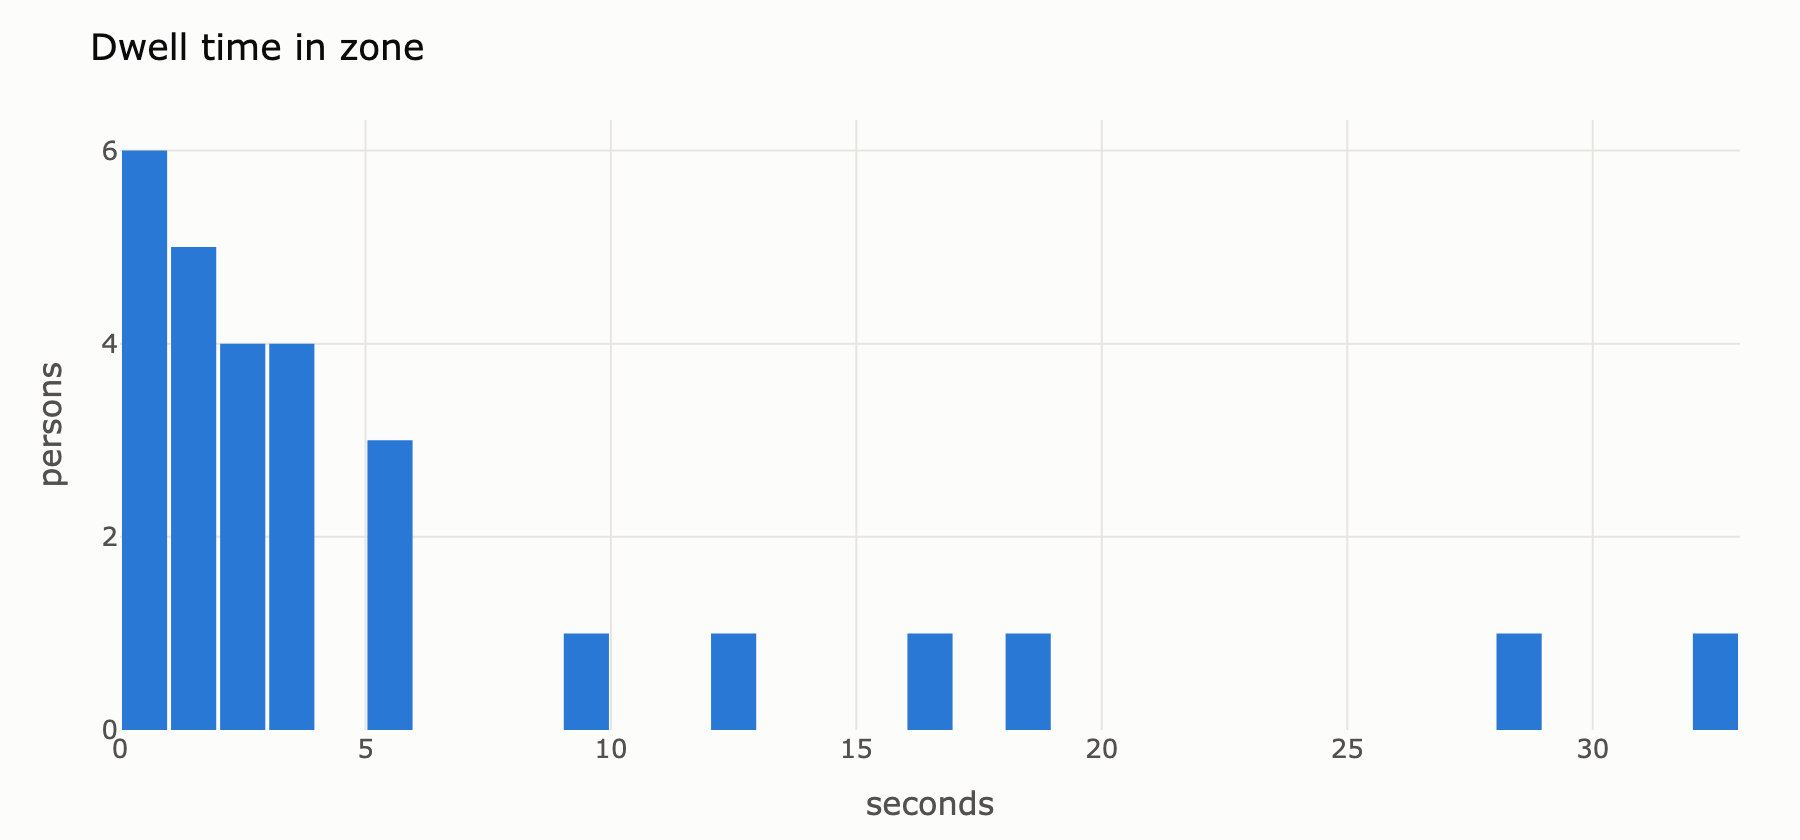
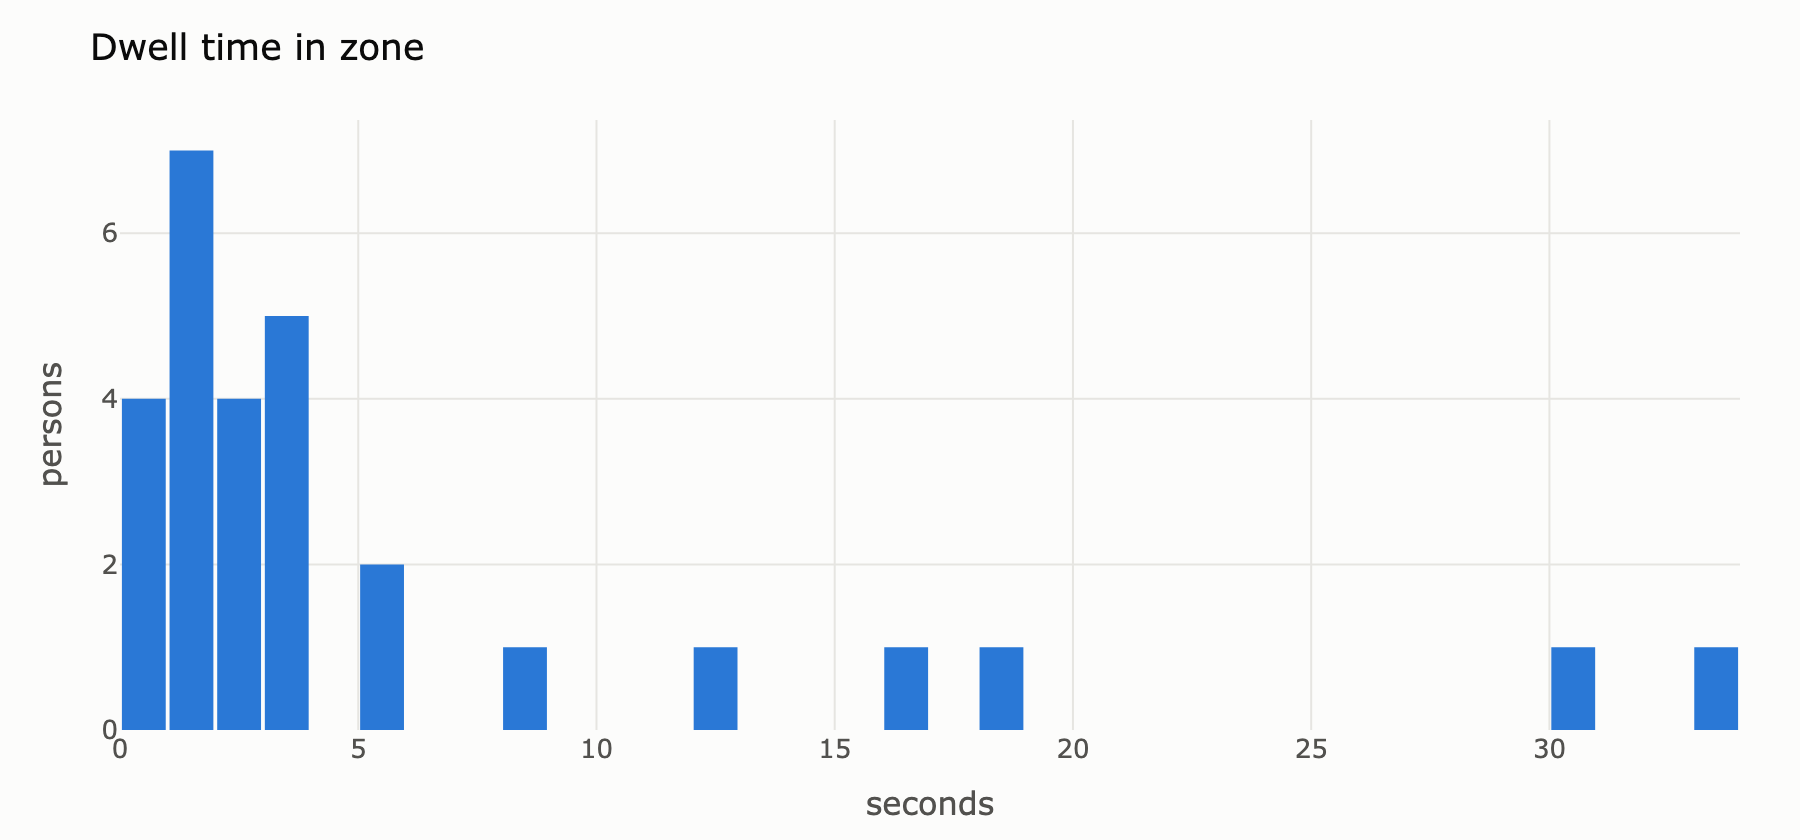
filter static low-confidence tracks, coreml fp16 accuracy parity in readme

diff --git a/src/crowd_dwell/analytics.py b/src/crowd_dwell/analytics.py
@@ -37,6 +37,13 @@ def stitch(df: pd.DataFrame, fps: float, max_gap_s: float, max_dist_px: float) -
     return df.assign(track_id=df.track_id.map(root).fillna(df.track_id).astype(int))
 
 
+def drop_static(df: pd.DataFrame, min_motion_px: float, min_conf: float) -> pd.DataFrame:
+    g = df.groupby("track_id")
+    extent = np.hypot(g.fx.max() - g.fx.min(), g.fy.max() - g.fy.min())
+    static = (extent < min_motion_px) & (g.conf.mean() < min_conf)
+    return df[~df.track_id.isin(static[static].index)]
+
+
 def track_kpis(df: pd.DataFrame, fps: float) -> pd.DataFrame:
     d = df.sort_values(["track_id", "frame"])
     step = np.hypot(d.groupby("track_id").fx.diff(), d.groupby("track_id").fy.diff())
@@ -100,6 +107,8 @@ def main() -> None:
     ap.add_argument("--zones", default="configs/zones.yaml")
     ap.add_argument("--max-gap", type=float, default=1.0, help="seconds")
     ap.add_argument("--max-dist", type=float, default=80.0, help="pixels")
+    ap.add_argument("--min-motion", type=float, default=20.0, help="pixels")
+    ap.add_argument("--static-conf", type=float, default=0.4)
     ap.add_argument("--min-dwell", type=float, default=0.5, help="seconds")
     ap.add_argument("--bin", type=float, default=5.0, help="seconds")
     ap.add_argument("--sigma", type=float, default=15.0)
@@ -109,8 +118,10 @@ def main() -> None:
     meta = json.loads((run / "meta.json").read_text())
     fps = meta["fps"]
     raw = load_tracks(run / "tracks.csv")
-    df = stitch(raw, fps, a.max_gap, a.max_dist)
-    df.drop(columns=["fx", "fy"]).to_csv(run / "tracks_stitched.csv", index=False)
+    stitched = stitch(raw, fps, a.max_gap, a.max_dist)
+    df = drop_static(stitched, a.min_motion, a.static_conf)
+    stitched.drop(columns=["fx", "fy"]).to_csv(run / "tracks_stitched.csv", index=False)
+    df.drop(columns=["fx", "fy"]).to_csv(run / "tracks_clean.csv", index=False)
 
     kpis = track_kpis(df, fps)
     kpis.to_csv(run / "track_kpis.csv")
@@ -139,7 +150,8 @@ def main() -> None:
 
     summary = {
         "tracks_raw": int(raw.track_id.nunique()),
-        "tracks_stitched": int(df.track_id.nunique()),
+        "tracks_stitched": int(stitched.track_id.nunique()),
+        "tracks_clean": int(df.track_id.nunique()),
         "line_in": int(kpis.crossed_in.sum()),
         "line_out": int(kpis.crossed_out.sum()),
         "zone_visitors": int(dwell.size),

diff --git a/tests/test_analytics.py b/tests/test_analytics.py
@@ -1,15 +1,15 @@
 import pandas as pd
 
-from crowd_dwell.analytics import stitch, throughput, track_kpis
+from crowd_dwell.analytics import drop_static, stitch, throughput, track_kpis
 
 FPS = 10.0
 
 
-def track(tid, frames, x0, in_zone=0, crossed_at=None):
+def track(tid, frames, x0, in_zone=0, crossed_at=None, conf=0.9, speed=1):
     return [
         {
-            "frame": f, "t": (f - 1) / FPS, "track_id": tid,
-            "fx": x0 + f, "fy": 500.0, "in_zone": in_zone,
+            "frame": f, "t": (f - 1) / FPS, "track_id": tid, "conf": conf,
+            "fx": x0 + speed * f, "fy": 500.0, "in_zone": in_zone,
             "crossed": int(f == crossed_at),
         }
         for f in frames
@@ -34,6 +34,16 @@ def test_stitch_chains_transitively():
         track(1, range(1, 6), 0) + track(2, range(8, 13), 0) + track(3, range(15, 20), 0)
     )
     assert stitch(df, FPS, max_gap_s=1.0, max_dist_px=50).track_id.unique().tolist() == [1]
+
+
+def test_drop_static_only_removes_still_low_confidence_tracks():
+    df = pd.DataFrame(
+        track(1, range(1, 50), 0, speed=0, conf=0.2)
+        + track(2, range(1, 50), 0, speed=0, conf=0.8)
+        + track(3, range(1, 50), 0, speed=5, conf=0.2)
+    )
+    out = drop_static(df, min_motion_px=20, min_conf=0.4)
+    assert sorted(out.track_id.unique()) == [2, 3]
 
 
 def test_kpis_dwell_and_crossings():

diff --git a/src/crowd_dwell/detect_track.py b/src/crowd_dwell/detect_track.py
@@ -50,8 +50,10 @@ class Renderer:
         self.trace = sv.TraceAnnotator(
             position=sv.Position.BOTTOM_CENTER, trace_length=int(2 * fps), color_lookup=lookup
         )
-        self.box = sv.BoxAnnotator(thickness=2, color_lookup=lookup)
-        self.label = sv.LabelAnnotator(text_scale=0.5, text_padding=4, color_lookup=lookup)
+        self.box = sv.BoxAnnotator(thickness=3, color_lookup=lookup)
+        self.label = sv.LabelAnnotator(
+            text_scale=0.9, text_thickness=2, text_padding=5, color_lookup=lookup
+        )
 
     def __call__(self, frame, det, labels, counts) -> np.ndarray:
         if self.anon:

diff --git a/src/crowd_dwell/benchmark.py b/src/crowd_dwell/benchmark.py
@@ -13,8 +13,8 @@ from crowd_dwell.zones import first_frame, read_frames, resolve_source
 
 def load(weights: str, backend: str, shape: tuple[int, int]) -> tuple[YOLO, str | None]:
     if backend.startswith("coreml"):
-        half = backend == "coreml-fp16"
-        return YOLO(YOLO(weights).export(format="coreml", imgsz=list(shape), half=half)), None
+        quant = {"quantize": 16} if backend == "coreml-fp16" else {}
+        return YOLO(YOLO(weights).export(format="coreml", imgsz=list(shape), **quant)), None
     return YOLO(weights), backend
 
 

diff --git a/README.md b/README.md
@@ -11,12 +11,13 @@ Detect people in video, track them over time and turn the tracks into audience K
 Requires macOS on Apple Silicon (MPS / CoreML), [uv](https://docs.astral.sh/uv/) and `ffmpeg` for the GIF.
 
 ```bash
-make setup                 # uv env, Python 3.12, incl. coremltools
-make data                  # MOT17 (~5.5 GB), extracts the FRCNN train sequences
-make preview SEQ=MOT17-04  # check line and zone from configs/zones.yaml
-make track analyze eval SEQ=MOT17-04
-make bench                 # FPS per model size and backend
-make gif
+make setup                         # uv env, Python 3.12, incl. coremltools
+make data                          # MOT17 (~5.5 GB), extracts the FRCNN train sequences
+make preview                       # check line and zone from configs/zones.yaml
+make export                        # YOLO26s -> CoreML FP16 (Neural Engine)
+make track analyze eval MODEL=yolo26s.mlpackage
+make bench                         # FPS per model size and backend
+make gif MODEL=yolo26s.mlpackage
 ```
 
 Any video file works as input:
@@ -33,6 +34,7 @@ uv run crowd-analyze runs/my_video
 | `annotated.mp4` | boxes, IDs, traces, line, zone, live counter, people pixelated |
 | `tracks.csv` | one row per frame and track: box, confidence, in-zone flag, crossing (+1 in / −1 out) |
 | `tracks_stitched.csv` | tracks after gap stitching |
+| `tracks_clean.csv` | stitched tracks without static low-confidence false positives (bollards, cones) |
 | `track_kpis.csv` | per track: first/last seen, dwell time, path length, crossings |
 | `throughput.csv`, `throughput.png` | crossings per minute over time |
 | `dwell_hist.png` | dwell time distribution |
@@ -44,6 +46,7 @@ uv run crowd-analyze runs/my_video
 - **Detection & tracking:** Ultralytics YOLO restricted to class `person`, ByteTrack with a low detection threshold (`conf=0.1`) so its second association stage can recover occluded people.
 - **Geometry:** the bottom-centre of each box (foot point) triggers the line and the zone, so a person counts where they stand, not where their head is.
 - **Gap stitching:** occlusions split one person into several IDs and cut dwell times short. A track starting within `--max-gap` seconds and `--max-dist` pixels of where another ended is merged into it (greedy, nearest first).
+- **Static false positives:** tracks that barely move (`--min-motion` px) and have low mean confidence (`--static-conf`) are dropped before aggregation, since bollards or cones detected as people would otherwise dominate dwell time and the heatmap. People standing still keep high confidence and are retained.
 - **Evaluation:** MOTA and IDF1 follow the MOTChallenge / TrackEval protocol: predictions matched to distractor classes (static person, reflection, …) are dropped, only non-ignored pedestrians count as ground truth, IoU ≥ 0.5.
 
 ## Results
@@ -58,19 +61,33 @@ uv run crowd-analyze runs/my_video
 | YOLO26s | 1280 | stitched | 51.8 | 61.7 | 85 | 61.2 | 86.9 |
 | YOLO26m | 1280 | raw | 53.8 | 60.0 | 108 | 63.3 | 87.3 |
 | YOLO26m | 1280 | stitched | **53.9** | **62.9** | 68 | 63.3 | 87.3 |
+| YOLO26s CoreML FP16 | 1280 | raw | 51.7 | 58.4 | 112 | 61.3 | 86.8 |
+| YOLO26s CoreML FP16 | 1280 | stitched | 51.8 | 60.6 | 80 | 61.3 | 86.8 |
 
 - Recall is the bottleneck: most misses are small, distant pedestrians. Input resolution matters more than model size (+7.4 MOTA from 960 → 1280, +2.1 from s → m).
+- The CoreML FP16 export matches PyTorch on MOTA (51.8) and loses about one IDF1 point. Small box deviations occasionally flip a long-lived identity, which IDF1 penalises over many frames.
 - Gap stitching changes only identities, so MOTA barely moves, but it cuts ID switches by 23–37 % and lifts IDF1 by up to 2.9 points. IDF1 is the metric that matters for dwell time.
 
 **Throughput** on MacBook M5, detection + tracking end to end:
 
 | Model | MPS | CoreML FP32 | CoreML FP16 |
 |---|---|---|---|
-| YOLO26n | – | – | – |
-| YOLO26s | – | – | – |
-| YOLO26m | – | – | – |
+| YOLO26n | 43.4 | 22.9 | **54.2** |
+| YOLO26s | 26.7 | 10.3 | **44.7** |
+| YOLO26m | 11.3 | 4.0 | **27.0** |
+
+FPS for detection + tracking, 1280×736 input, median over 300 frames after warm-up (`make bench`).
+
+- CoreML FP16 is 1.7× (s) to 2.4× (m) faster than PyTorch MPS. Only FP16 models are eligible for the Apple Neural Engine; the FP32 export falls back to GPU/CPU and is the slowest option.
+- With FP16, YOLO26s at 1280 px runs above real time (30 fps source) including tracking, which makes it the default configuration.
+- PyTorch MPS executes asynchronously: the reported inference time covers only kernel dispatch, and the GPU wait shows up in post-processing. Only end-to-end frame time is comparable across backends.
+
+**Audience KPIs** for MOT17-04 (YOLO26s CoreML FP16, 1280 px, 30.8 fps including rendering and anonymisation): 119 persons after stitching (180 raw tracks), 28 zone visitors in front of the shop with a median dwell of 2.5 s and P90 of 16.9 s.
 
 ![heatmap](assets/heatmap.png)
+
+![dwell](assets/dwell_hist.png)
+![throughput](assets/throughput.png)
 
 ## Privacy by design
 
